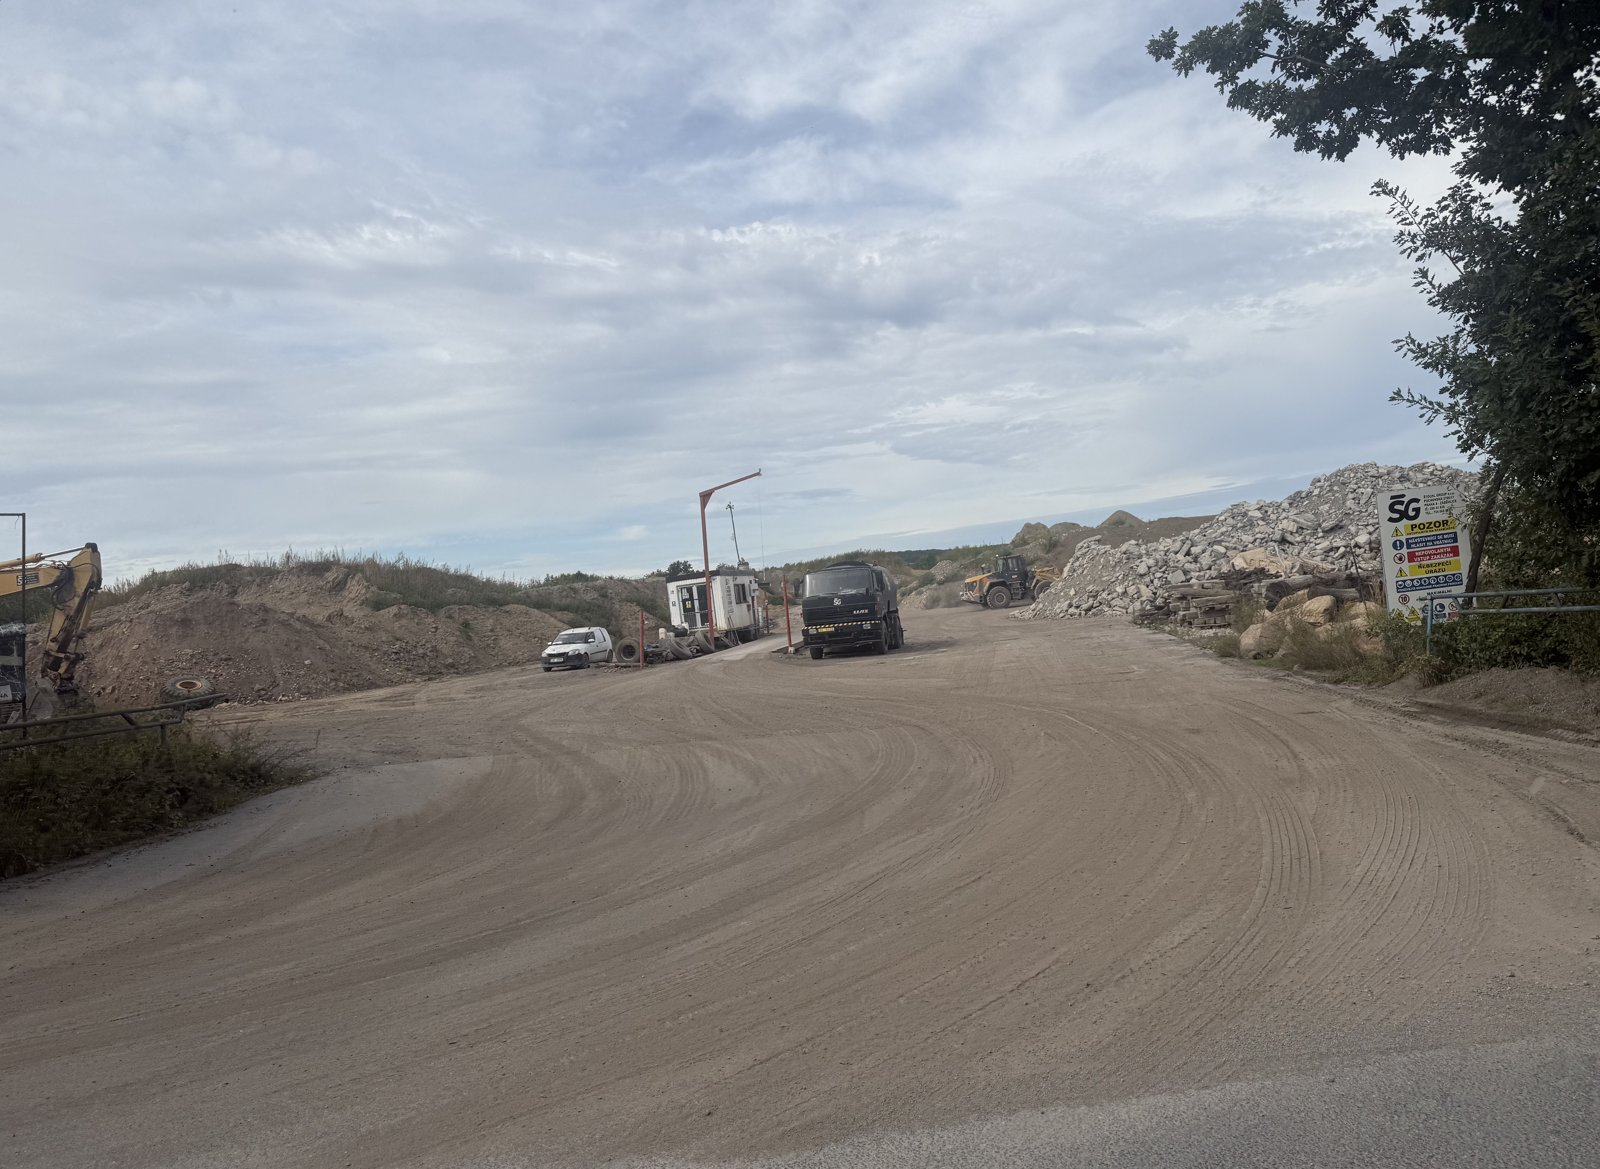
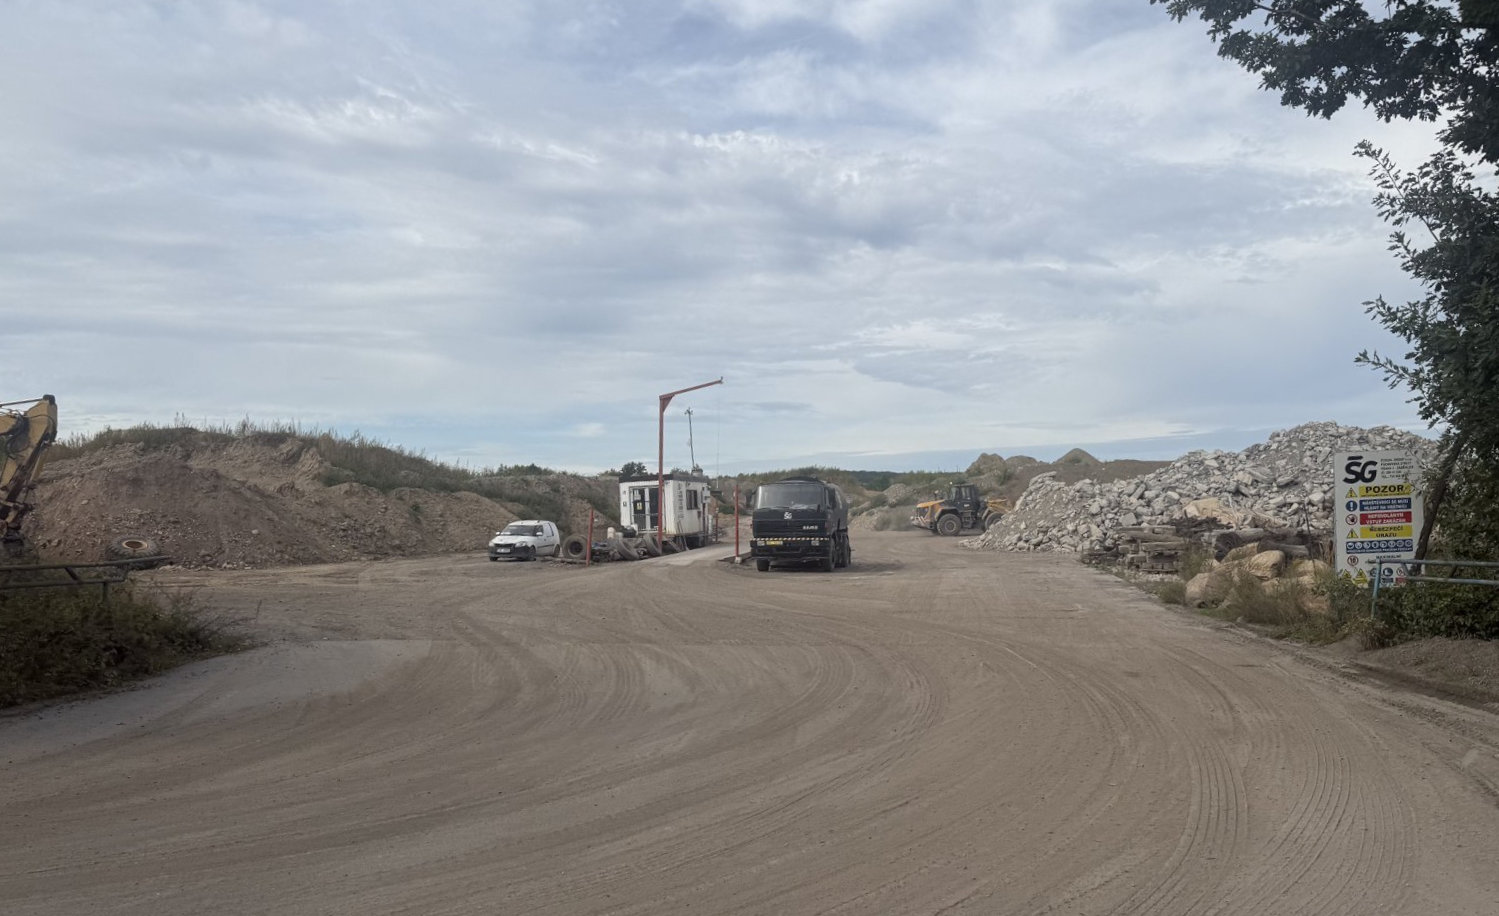
Doplneni clanku

diff --git a/site/info/2026/09/06/2026-09-06-eia-golf-akademie/index.html b/site/info/2026/09/06/2026-09-06-eia-golf-akademie/index.html
@@ -1477,7 +1477,7 @@
     <span class="md-icon" title="Poslední aktualizace">
       <svg xmlns="http://www.w3.org/2000/svg" viewBox="0 0 24 24"><path d="M21 13.1c-.1 0-.3.1-.4.2l-1 1 2.1 2.1 1-1c.2-.2.2-.6 0-.8l-1.3-1.3c-.1-.1-.2-.2-.4-.2m-1.9 1.8-6.1 6V23h2.1l6.1-6.1zM12.5 7v5.2l4 2.4-1 1L11 13V7zM11 21.9c-5.1-.5-9-4.8-9-9.9C2 6.5 6.5 2 12 2c5.3 0 9.6 4.1 10 9.3-.3-.1-.6-.2-1-.2s-.7.1-1 .2C19.6 7.2 16.2 4 12 4c-4.4 0-8 3.6-8 8 0 4.1 3.1 7.5 7.1 7.9l-.1.2z"></path></svg>
     </span>
-    <span class="git-revision-date-localized-plugin git-revision-date-localized-plugin-date" title="6. září 2026 07:47:40 UTC">6. září 2026</span>
+    <span class="git-revision-date-localized-plugin git-revision-date-localized-plugin-date" title="7. září 2026 17:25:01 UTC">7. září 2026</span>
   </span>
 
     
